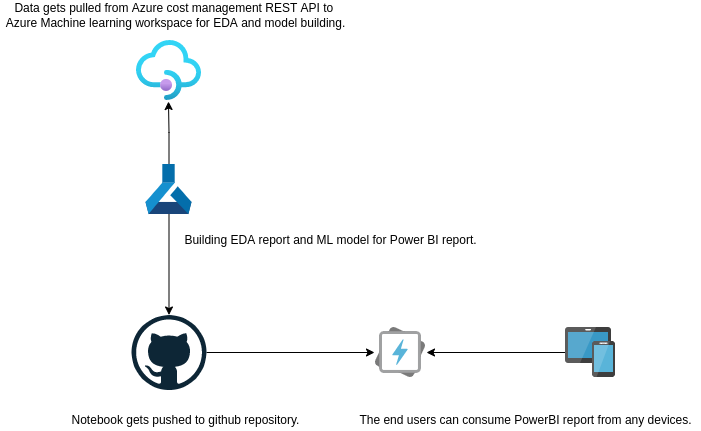
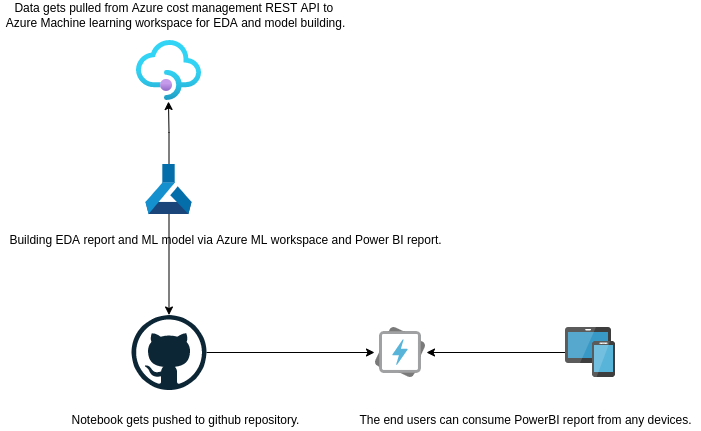
Commit

Changed region(s): [[0.0, 0.5429, 0.689, 0.5731]]

diff --git a/README.md b/README.md
@@ -2,16 +2,16 @@
 ## 1. Introduction
 ### 1.1	Overview
 
-There is a requirement from the business to further analyze the current cost model for Azure resources and potentially purchase reserved instances.
+There is a requirement from the business to further analyse the current cost model of Azure resources and potentially purchase Azure reserved instances.
 
-This document is intended to provide a high level overview of workflow on how the automation fetches data via API and makes dataframe.
+This document is intended to provide a high level overview of workflow on how the automation fetches payload in JSON via API and converts them into consumable data format for further analysis activity.
 
-Included a step by step detailed analysis notebook around identifying the root cause of the script to fail. (ref: https://github.com/lyoh001/AzureReservedInstance/blob/main/notebook/notebook.ipynb)
+Included a step by step detailed analysis notebook around discovering and exploring the current consumption pattern. (ref: https://github.com/lyoh001/AzureReservedInstance/blob/main/notebook/notebook.ipynb)
 
 
 
 ## 2 Azure Reserved Instance Power BI Reports
-- Description: Fetch and analyze the current cost model for Azure resources via Power BI and Notebook EDA and further predict the cost with ML Time Series. 
+- Description: Fetch and analyse the current cloud resource consumption pattern via Power BI and Notebook EDA and further predict the cost with ML Time Series. 
 - Priority: 3
 - Owners: Tier 0
 
@@ -20,7 +20,7 @@ Included a step by step detailed analysis notebook around identifying the root c
 ![Figure 1: Logical Architecture Overview](./.images/workflow.png)
 1. Data gets pulled from Azure cost management REST API to 
 Azure Machine learning workspace for EDA and model building.
-1. Building EDA report and ML model for Power BI report.
+1. Building EDA report and ML model via Azure ML workspace and Power BI report.
 1. Notebook gets pushed to github repository.
 1. The end users can consume PowerBI report from any devices.
 
@@ -31,4 +31,4 @@ Azure Machine learning workspace for EDA and model building.
 
 This project is used by the following teams:
 
-- Cloud Platform
+- Cloud Hosting Platform
